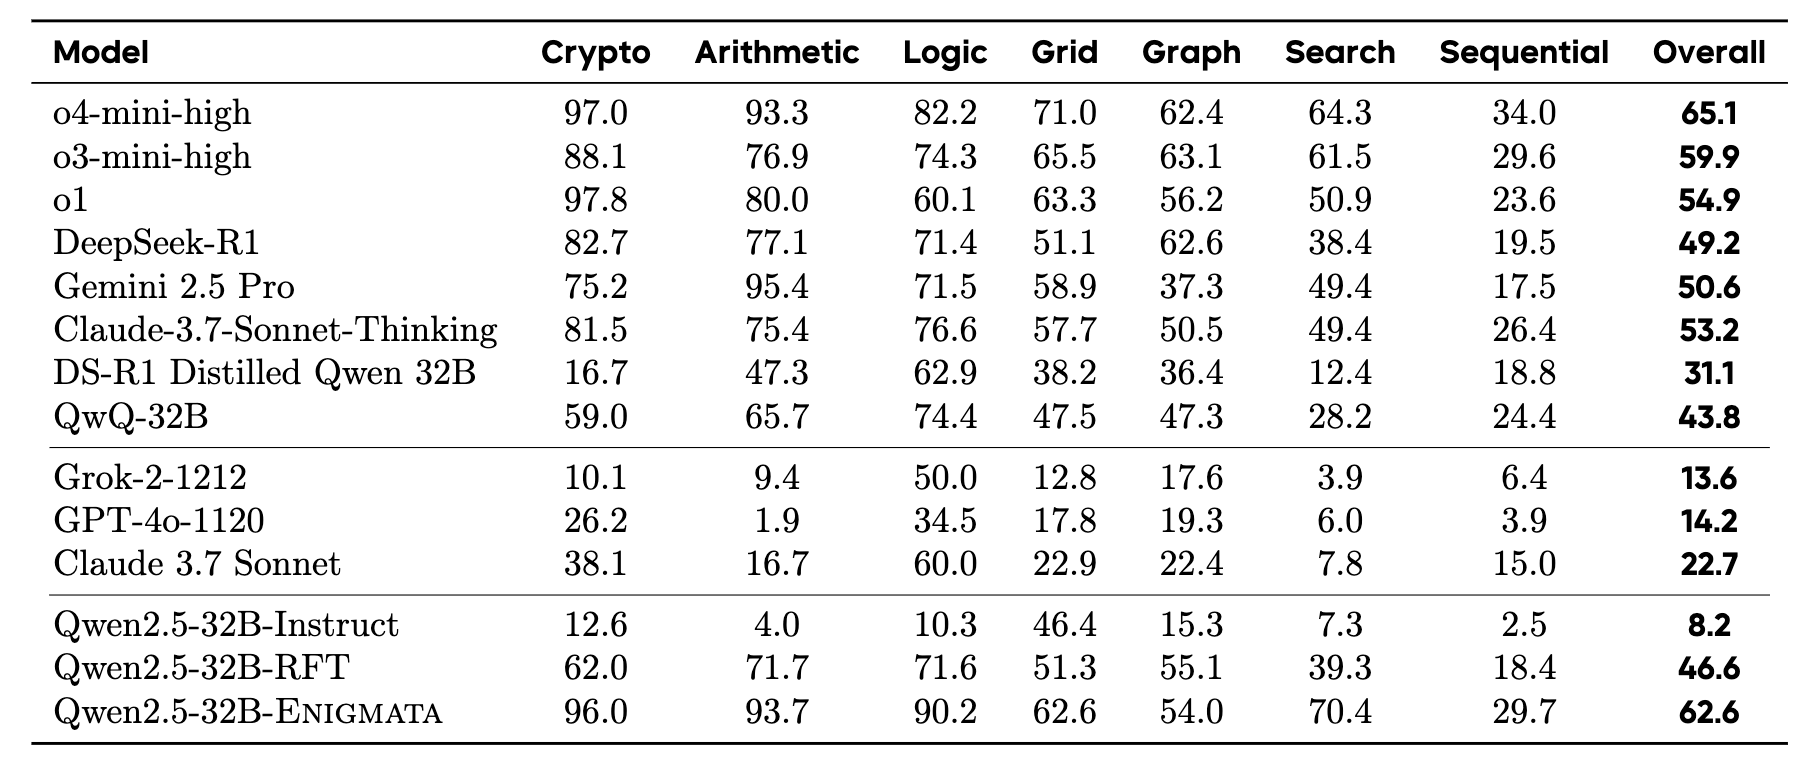
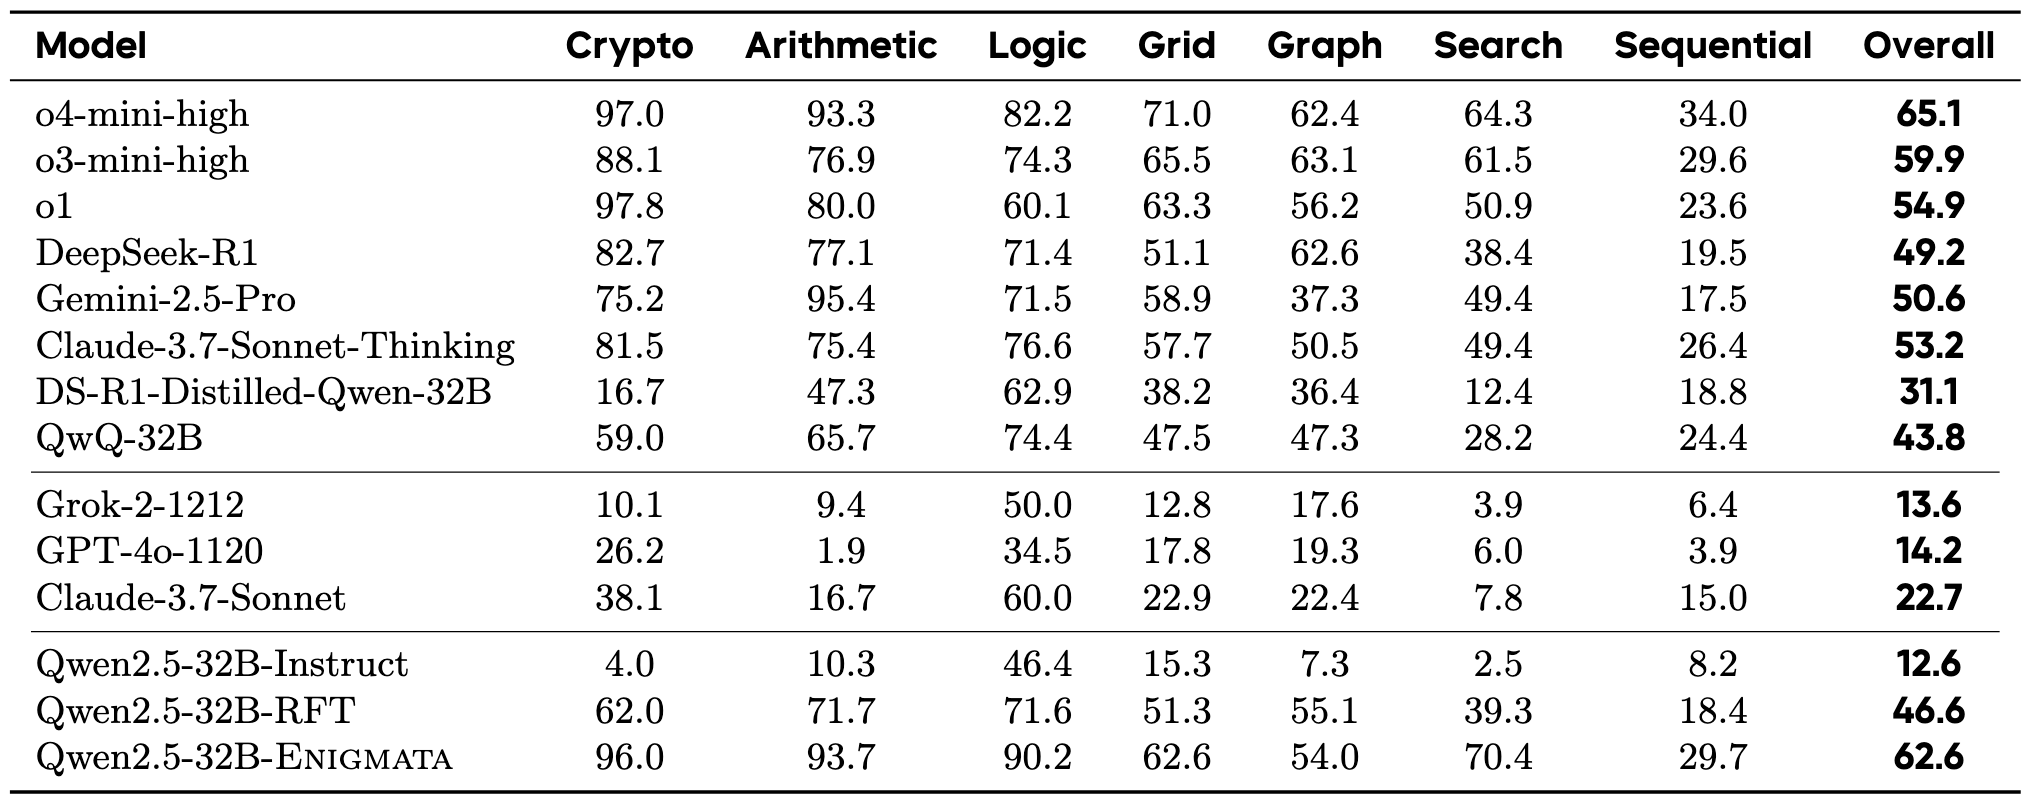
update

Changed region(s): [[0.0, 0.0, 0.9912, 0.9909], [0.7124, 0.3603, 0.7743, 0.3903], [0.8363, 0.3603, 0.8673, 0.3903]]

diff --git a/index.html b/index.html
@@ -676,12 +676,12 @@
                     <div class="content">
                         <p>If you find this work useful, please cite our paper:</p>
                         <pre><code class="latex">
-    @article{2025enigmata,
-      title={Enigmata: Scaling Logical Reasoning in Large Language Models with Synthetic Verifiable Puzzles},
-      author={Jiangjie Chen, Qianyu He, Siyu Yuan, Aili Chen, Zhicheng Cai, Weinan Dai, Hongli Yu, Qiying Yu, Xuefeng Li, Jiaze Chen, Hao Zhou, Mingxuan Wang},
-      journal={arXiv preprint arXiv:2505.19914},
-      year={2025}
-    }
+@article{chen2025enigmata,
+    title={Enigmata: Scaling Logical Reasoning in Large Language Models with Synthetic Verifiable Puzzles},
+    author={Chen, Jiangjie and He, Qianyu and Yuan, Siyu and Chen, Aili and Cai, Zhicheng and Dai, Weinan and Yu, Hongli and Yu, Qiying and Li, Xuefeng and Chen, Jiaze and others},
+    journal={arXiv preprint arXiv:2505.19914},
+    year={2025}
+}
                         </code></pre>
                     </div>
                 </div>
